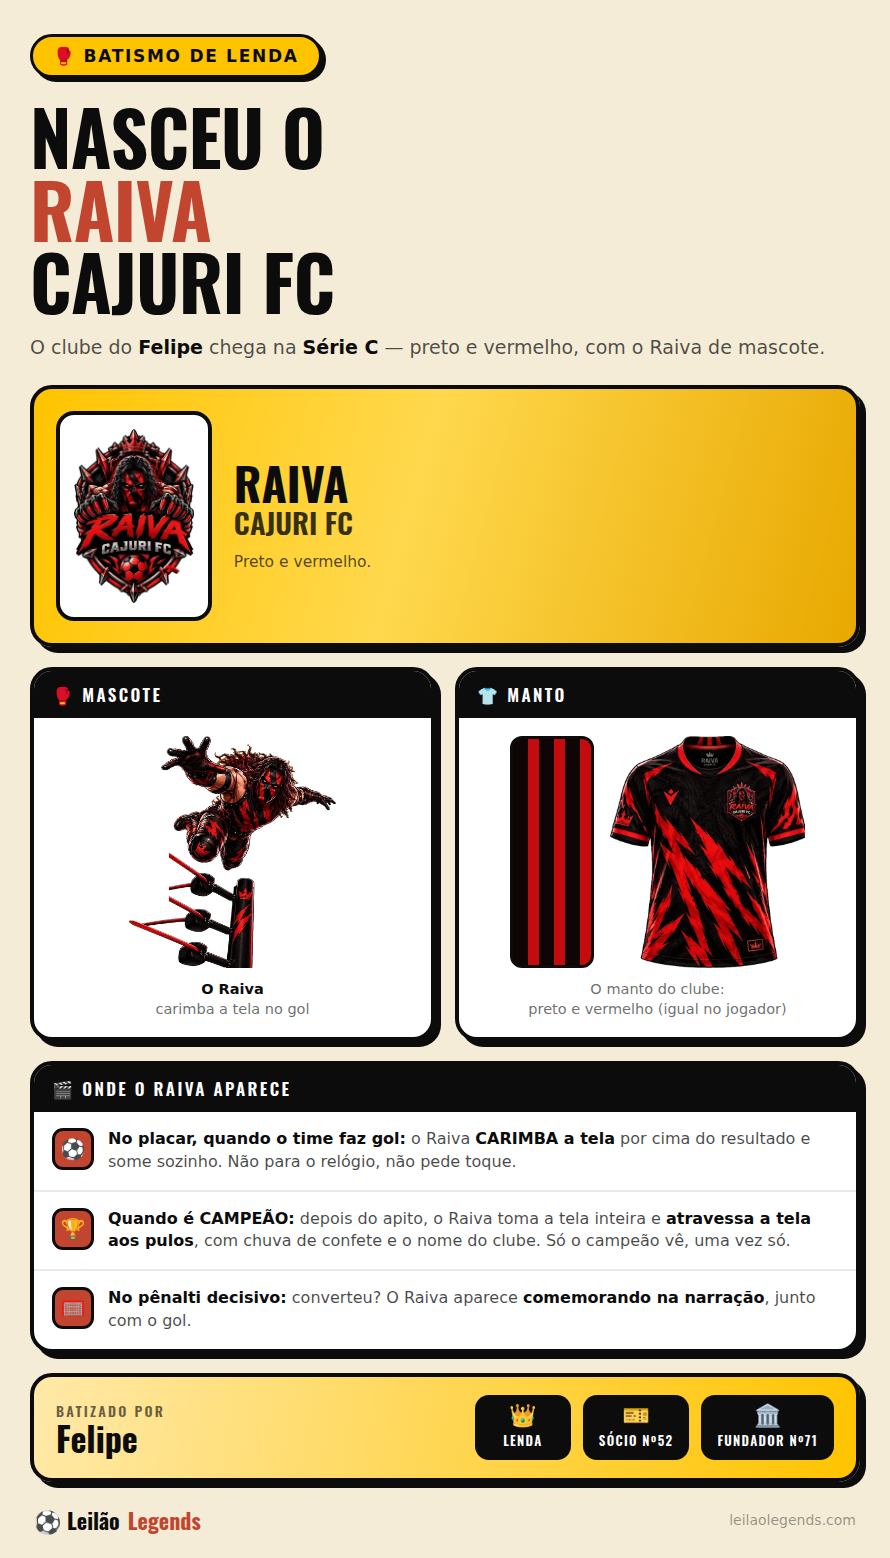
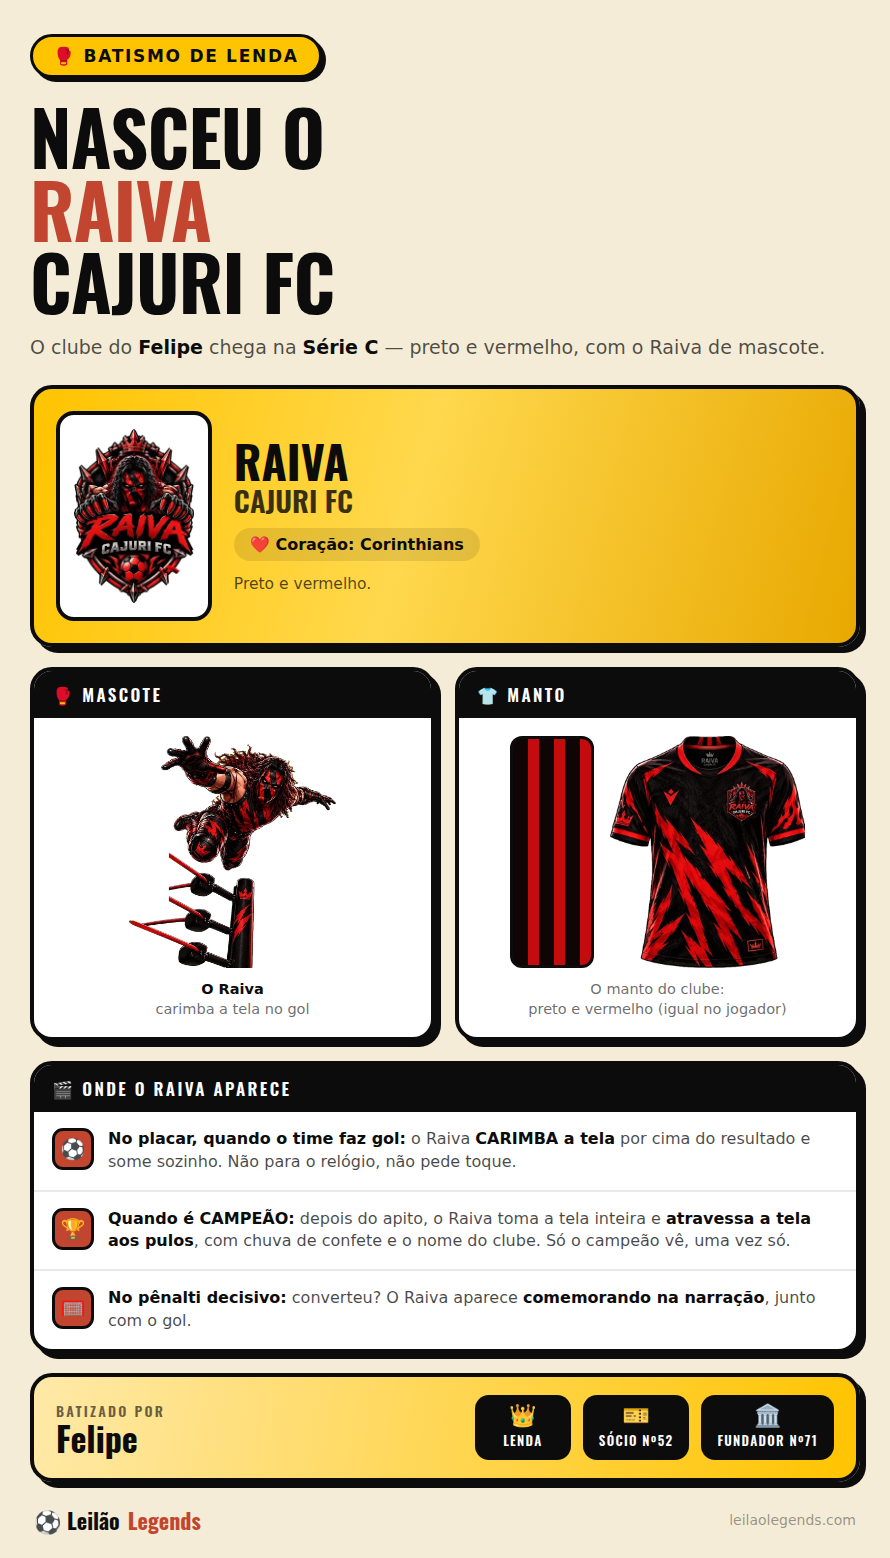
Raiva Cajuri: o time de coracao do dono e o Corinthians -- banco + post
Diego: "Corinthians". Gravado em esc_socios.time_coracao com a mesma grafia que os
outros 8 socios corintianos ja usam (a coluna e busca exata) e anotado no
apoio.tsx. Post regerado com --coracao.

Com isso o batismo do Raiva Cajuri FC esta completo nas tres pernas: codigo,
banco e deploy.

Claude-Session: https://claude.ai/code/session_018Ap1zPCMVL9XeZJN3u93ZA

Changed region(s): [[0.2427, 0.2773, 0.5461, 0.4005]]

diff --git a/src/escalacao/apoio.tsx b/src/escalacao/apoio.tsx
@@ -139,7 +139,7 @@ const FOUNDERS: Record<string, ApoioTier> = {
   'lluchmarcel81@gmail.com': 'ouro', // 👑 Lenda — batismo (Esqueceram do Lluch FC, ex-Litoral United, Série B) + FUNDADOR nº50 (28/08)
   'agrostinho88@gmail.com': 'ouro', // 👑 Lenda (pago) — tudo do ouro + FUNDADOR nº39 + sócio nº29 + batismo (Papão United Madrid, ex-Santos Dumont, Série D; Leandro/Obina) (nome reservado 11/08, clube entregue 23/08)
   'erosreis@outlook.com.br': 'ouro', // 👑 Lenda (pago) — tudo do ouro + FUNDADOR + batismo (Eros FC — influencer @erosreis; nomes: Eros Reis FC / Eros Reis / Eros; mascote Nina 🐶) (12/08)
-  'feliperamiro0501@hotmail.com': 'ouro', // 👑 Lenda — tudo do ouro + FUNDADOR nº71 + batismo (Raiva Cajuri FC, Série C; lutador mascarado 🥊; manto preto e vermelho) (16/09)
+  'feliperamiro0501@hotmail.com': 'ouro', // 👑 Lenda — tudo do ouro + FUNDADOR nº71 + batismo (Raiva Cajuri FC, Série C; lutador mascarado 🥊; manto preto e vermelho; coração Corinthians) (16/09)
   'caiobegnamii@gmail.com': 'ouro', // 👑 Lenda — tudo do ouro + FUNDADOR nº70 + batismo (Rei da Bola FC, Série A; leão branco coroado 👑🦁; manto branco com faixa vermelha e preta; coração São Paulo — daí o tricolor) (16/09)
   'tiosapeka@gmail.com': 'ouro', // 👑 Lenda (pago) — tudo do ouro + FUNDADOR + batismo (Sapekeiros FC — influencer @tiosapekagg; mascote abelha coroada 🐝; coração Santos) (12/08)
   'chiarentin.dyno127@gmail.com': 'ouro', // 👑 Lenda (pago) — tudo do ouro, SEM fundador (não entra no FUNDADOR_N) (12/08)
